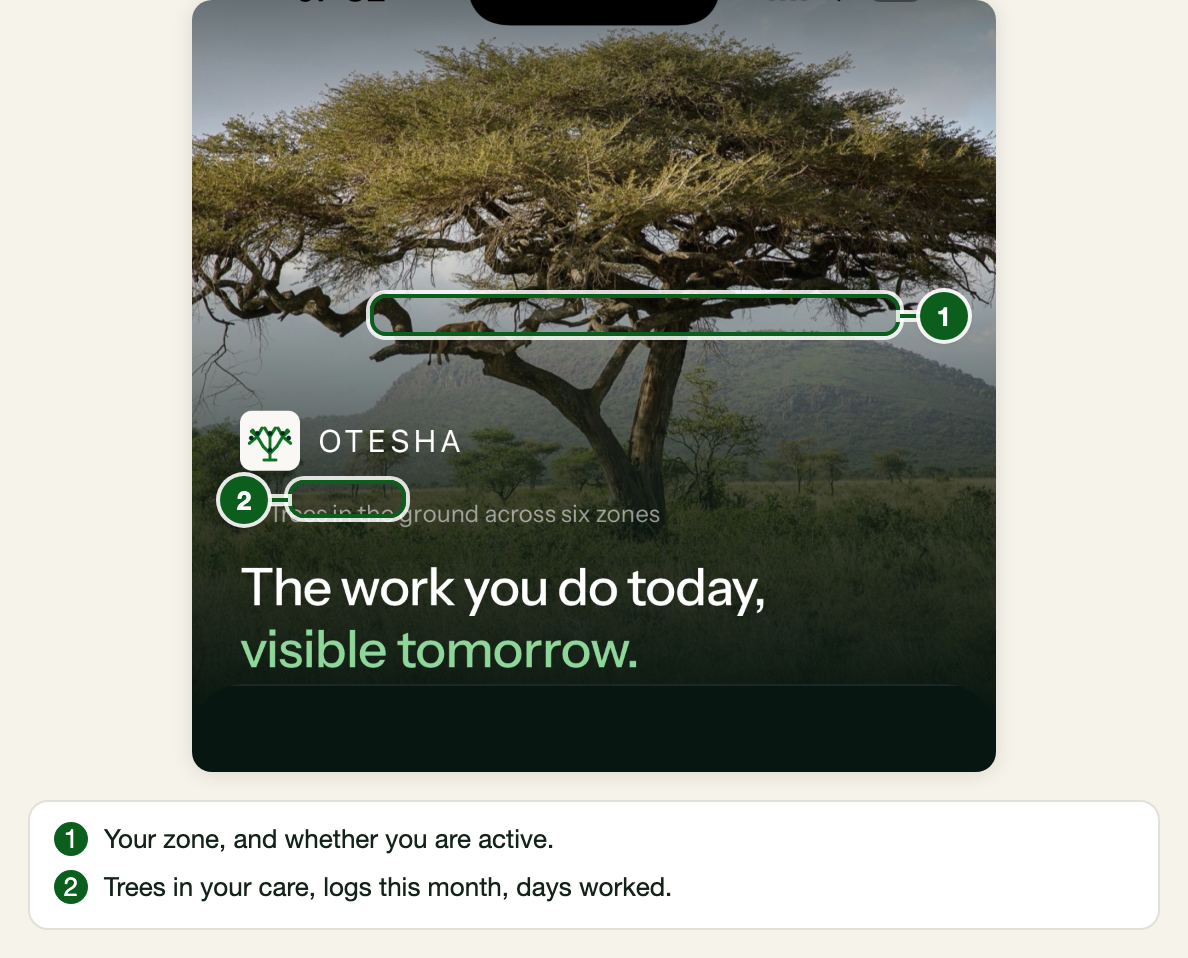
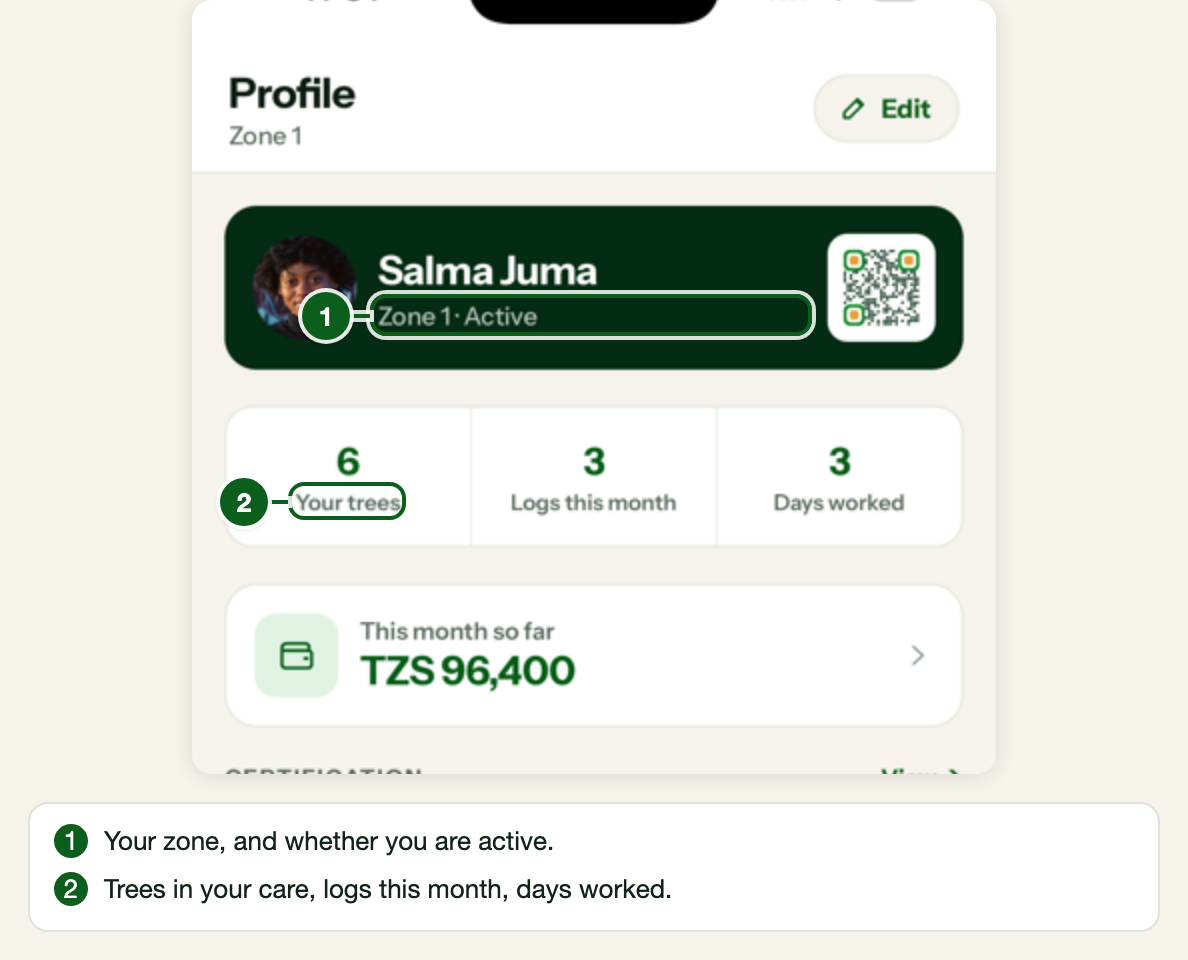
Recapture the two caretaker figures against the demo build
Both are back on their pages showing the screens they claim to.

They shoot against the static demo build now, not the dev client. The dev client
needs a reachable packager; when it cannot find one it sits on its server picker
while the capture photographs whatever is behind it, which is how both figures
came to show the splash screen. The demo build carries bundled fixtures and
opens already signed in — what it was built for. The trade is that these two
figures show demo data (Salma in Zone 1, six trees) rather than the seeded
database, and the prose on those pages follows the figures.

The anchors are waitFor assertions rather than pauses, and Maestro matches text
as a whole-string regex: "Today's tasks" never matches a node labelled
"Today's tasks · 1 of 6 · trees done · 5 watering". It has to be
".*Today's tasks.*".

43 figures shipping, no pending, eight checks green.

Claude-Session: https://claude.ai/code/session_01BzGu6AtXdAhGoC7dnTavHp

diff --git a/PHASES.md b/PHASES.md
@@ -465,12 +465,21 @@ pay".
 **Two caretaker figures showed the splash screen.** `caretaker/trees` and
 `caretaker/profile` photographed the app before it had finished starting, with
 the callouts marking empty space on the background photograph. Both recipes
-counted seconds instead of waiting for anything; they now wait for the screen to
-render, and both failed immediately when re-run — which is the correct
-behaviour. They could not be re-shot: the dev client will not bind to this
-machine's Metro, and the static demo build launches but does not respond to tab
-taps under Maestro. Both figures are withdrawn from their pages, their recipes
-are kept and marked `pending`, and `check-shots` reports them on every run.
+counted seconds instead of waiting for anything.
+
+Both now shoot against the **static demo build** rather than the dev client. The
+dev client needs a reachable packager, and when it cannot find one it sits on
+its server picker while the capture photographs whatever is behind it; the demo
+build carries bundled fixtures and opens already signed in, which is what it was
+made for. The trade is that these two figures show demo data — Salma in Zone 1
+with six trees — rather than the seeded database, and the prose on those pages
+follows the figures.
+
+The anchors are now `waitFor` assertions, and one detail cost an hour: **Maestro
+matches text as a whole-string regex**, so `"Today's tasks"` never matches a node
+labelled `"Today's tasks · 1 of 6 · trees done · 5 watering"`. It has to be
+`".*Today's tasks.*"`. A `waitFor` that can never match is a recipe that always
+fails, which is better than one that always passes, but only just.
 
 `capture/recompose.mjs` came out of this. It redraws every figure from the
 frames `shoot.mjs` already caches, so changing how markers are drawn costs no

diff --git a/docs/caretaker/05-profile.md b/docs/caretaker/05-profile.md
@@ -20,9 +20,11 @@ without signal.
 
 **1. Tap Profile.**
 
+![The caretaker profile screen, with the zone and status line and the work counts marked. Marked on the screenshot: Your zone, and whether you are active. Trees in your care, logs this month, days worked.](/img/caretaker-profile-01-en.png "Profile. Your standing, and what this month adds up to.")
+
 **2. Read the line under your name.**
 
-It says your zone and your status — *Zone 87 · Active*. **Active** is what lets
+It says your zone and your status — *Zone 1 · Active*. **Active** is what lets
 you be given trees and be paid; if it says anything else, that is the thing to
 ask your supervisor about before anything else on this screen.
 

diff --git a/docs/caretaker/06-trees.md b/docs/caretaker/06-trees.md
@@ -21,6 +21,8 @@ Nothing. It lists what the app last downloaded, so it opens without signal.
 
 **1. Tap Trees.**
 
+![The caretaker app's tree list, with the heading and the Needs attention filter marked. Marked on the screenshot: Every tree in your section. Narrow to the ones asking for something.](/img/caretaker-trees-01-en.png "Your trees. Your zone and the count are under the heading.")
+
 Under the heading is your zone and how many trees are in your care. Each row is
 one tree: its code, how old it is, when it was last watered, and how far along
 it is — **Growing**, **Mature**, and so on.
